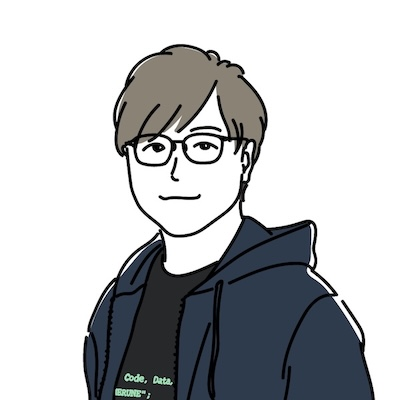
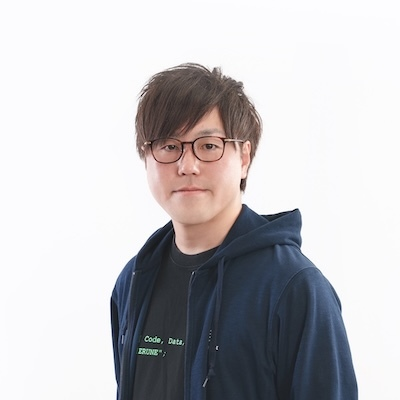
Replace Charter Member section with Organizers

Changed region(s): [[0.21, 0.09, 0.96, 1.0]]

diff --git a/components/Home.tsx b/components/Home.tsx
@@ -1,5 +1,8 @@
 import DayjournalIcon from '@/assets/dayjournal.jpg';
 import KiguchiIcon from '@/assets/kiguchi.jpg';
+import AsahinaIcon from '@/assets/asahina820.jpg';
+import SmellmanIcon from '@/assets/smellman.jpg';
+import KeichanIcon from '@/assets/keichan34.jpg';
 import MugjpLLogo from '@/assets/mugjp.png';
 import Member from './Member';
 import LogoGithub from '@/components/LogoGithub';
@@ -48,10 +51,12 @@ export default function Page() {
                 </div>
             </div>
             <div className="flex flex-col items-center justify-center gap-8">
-                <h1 className="text-3xl font-bold">Charter Member</h1>
-                <div className="grid grid-cols-2 gap-10">
+                <h1 className="text-3xl font-bold">Organizers</h1>
+                <div className="grid grid-cols-2 md:grid-cols-3 gap-x-6 gap-y-10 md:gap-x-10 md:gap-y-12">
                     <Member
                         name="Yasunori Kirimoto"
+                        caption="Founding Member · 2023"
+                        founding
                         icon={DayjournalIcon}
                         xUrl="https://x.com/dayjournal_nori"
                         githubUrl="https://github.com/dayjournal"
@@ -59,10 +64,36 @@ export default function Page() {
                     />
                     <Member
                         name="Kanahiro Iguchi"
+                        caption="Founding Member · 2023"
+                        founding
                         icon={KiguchiIcon}
                         xUrl="https://x.com/kanahiro_iguchi"
                         githubUrl="https://github.com/Kanahiro"
                         linkedinUrl="https://www.linkedin.com/in/kanahiro-iguchi-b78b96122/"
+                    />
+                    <Member
+                        name="Keita Kobayashi"
+                        caption="Organizer · since 2026"
+                        icon={KeichanIcon}
+                        xUrl="https://x.com/sleepy_keita"
+                        githubUrl="https://github.com/keichan34/"
+                        linkedinUrl="https://www.linkedin.com/in/keitaroh-kobayashi/"
+                    />
+                    <Member
+                        name="Taro Matsuzawa"
+                        caption="Organizer · since 2026"
+                        icon={SmellmanIcon}
+                        xUrl="https://x.com/smellman"
+                        githubUrl="https://github.com/smellman"
+                        linkedinUrl="https://www.linkedin.com/in/tmatsuzawa/"
+                    />
+                    <Member
+                        name="Asahina"
+                        caption="Organizer · since 2026"
+                        icon={AsahinaIcon}
+                        xUrl="https://x.com/asahina820"
+                        githubUrl="https://github.com/asahina820"
+                        linkedinUrl="https://www.linkedin.com/in/asahina820/"
                     />
                 </div>
             </div>

diff --git a/components/Member.tsx b/components/Member.tsx
@@ -4,6 +4,8 @@ import LogoLinkedin from '@/components/LogoLinkedin';
 
 type Props = {
     name: string;
+    caption: string;
+    founding?: boolean;
     xUrl: string;
     githubUrl: string;
     linkedinUrl: string;
@@ -12,21 +14,36 @@ type Props = {
 
 export default function Member({
     name,
+    caption,
+    founding = false,
     icon,
     xUrl,
     githubUrl,
     linkedinUrl,
 }: Props) {
     return (
-        <div className="flex flex-col justify-center items-center space-y-2">
+        <div className="flex flex-col justify-center items-center space-y-2 text-center">
             <img
                 src={icon}
                 alt={name}
-                className="rounded-full"
-                width={200}
-                height={200}
+                className="rounded-full object-cover border border-gray-500/45 w-32 h-auto md:w-40"
+                width={160}
+                height={160}
             />
-            <span className="font-semibold text-sm md:text-base">{name}</span>
+            <div className="flex flex-col items-center gap-0.5">
+                <span className="font-semibold text-sm md:text-base">
+                    {name}
+                </span>
+                <span
+                    className={`text-[11px] md:text-xs tracking-wider whitespace-nowrap ${
+                        founding
+                            ? 'text-blue-600 dark:text-blue-400'
+                            : 'text-gray-500 dark:text-gray-400'
+                    }`}
+                >
+                    {caption}
+                </span>
+            </div>
             <div className="flex gap-4">
                 <a href={xUrl}>
                     <LogoX />

diff --git a/tests/build.test.ts b/tests/build.test.ts
@@ -27,7 +27,7 @@ test('every article and listing has prerendered content and valid local URLs', (
         assert.match(
             html,
             page === ''
-                ? /Charter Member/
+                ? /Organizers/
                 : page === 'posts'
                   ? /class="truncate"/
                   : /(?:<h[12]|Published At:)/,
